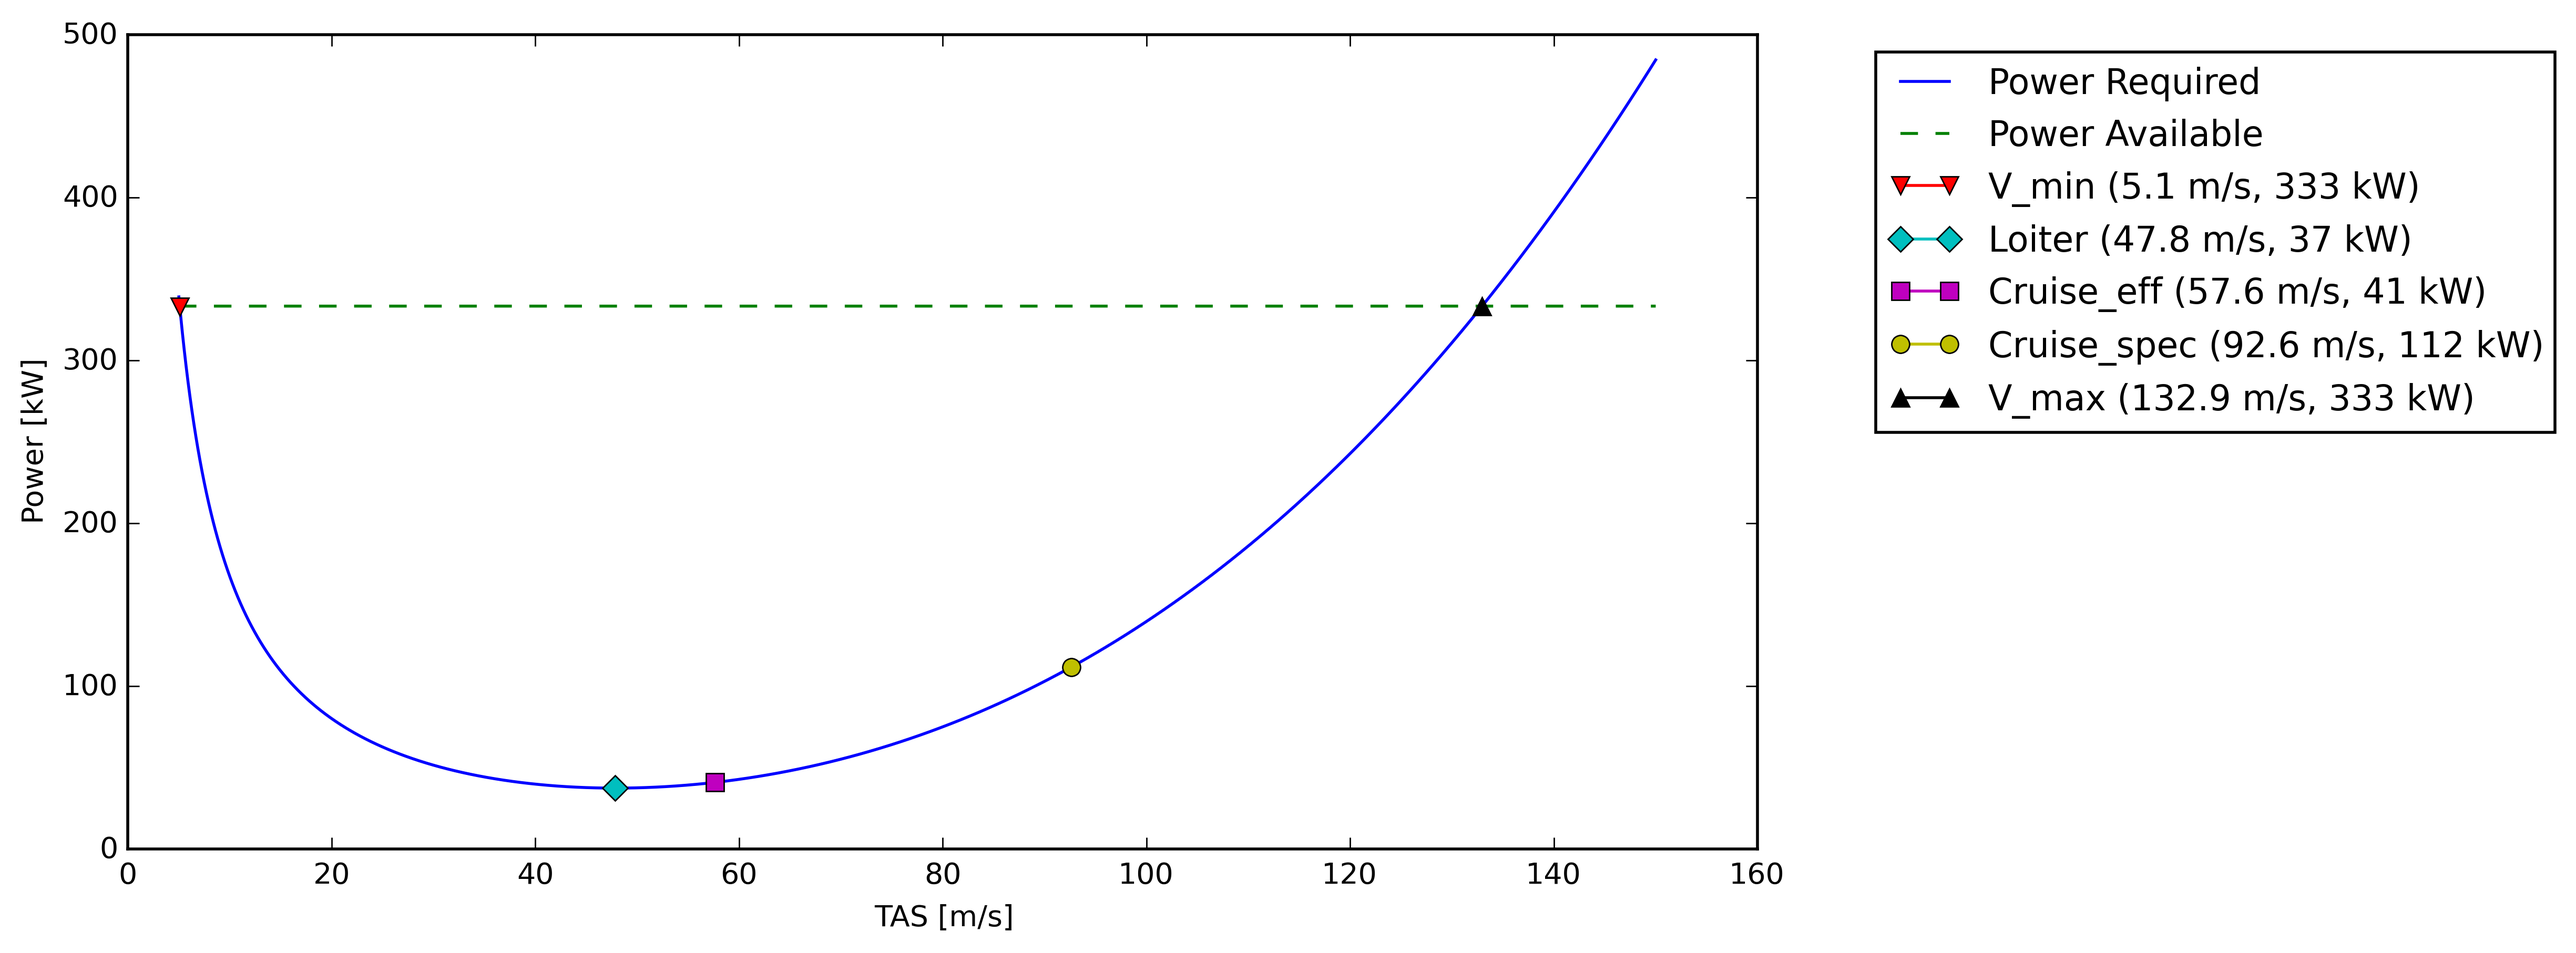
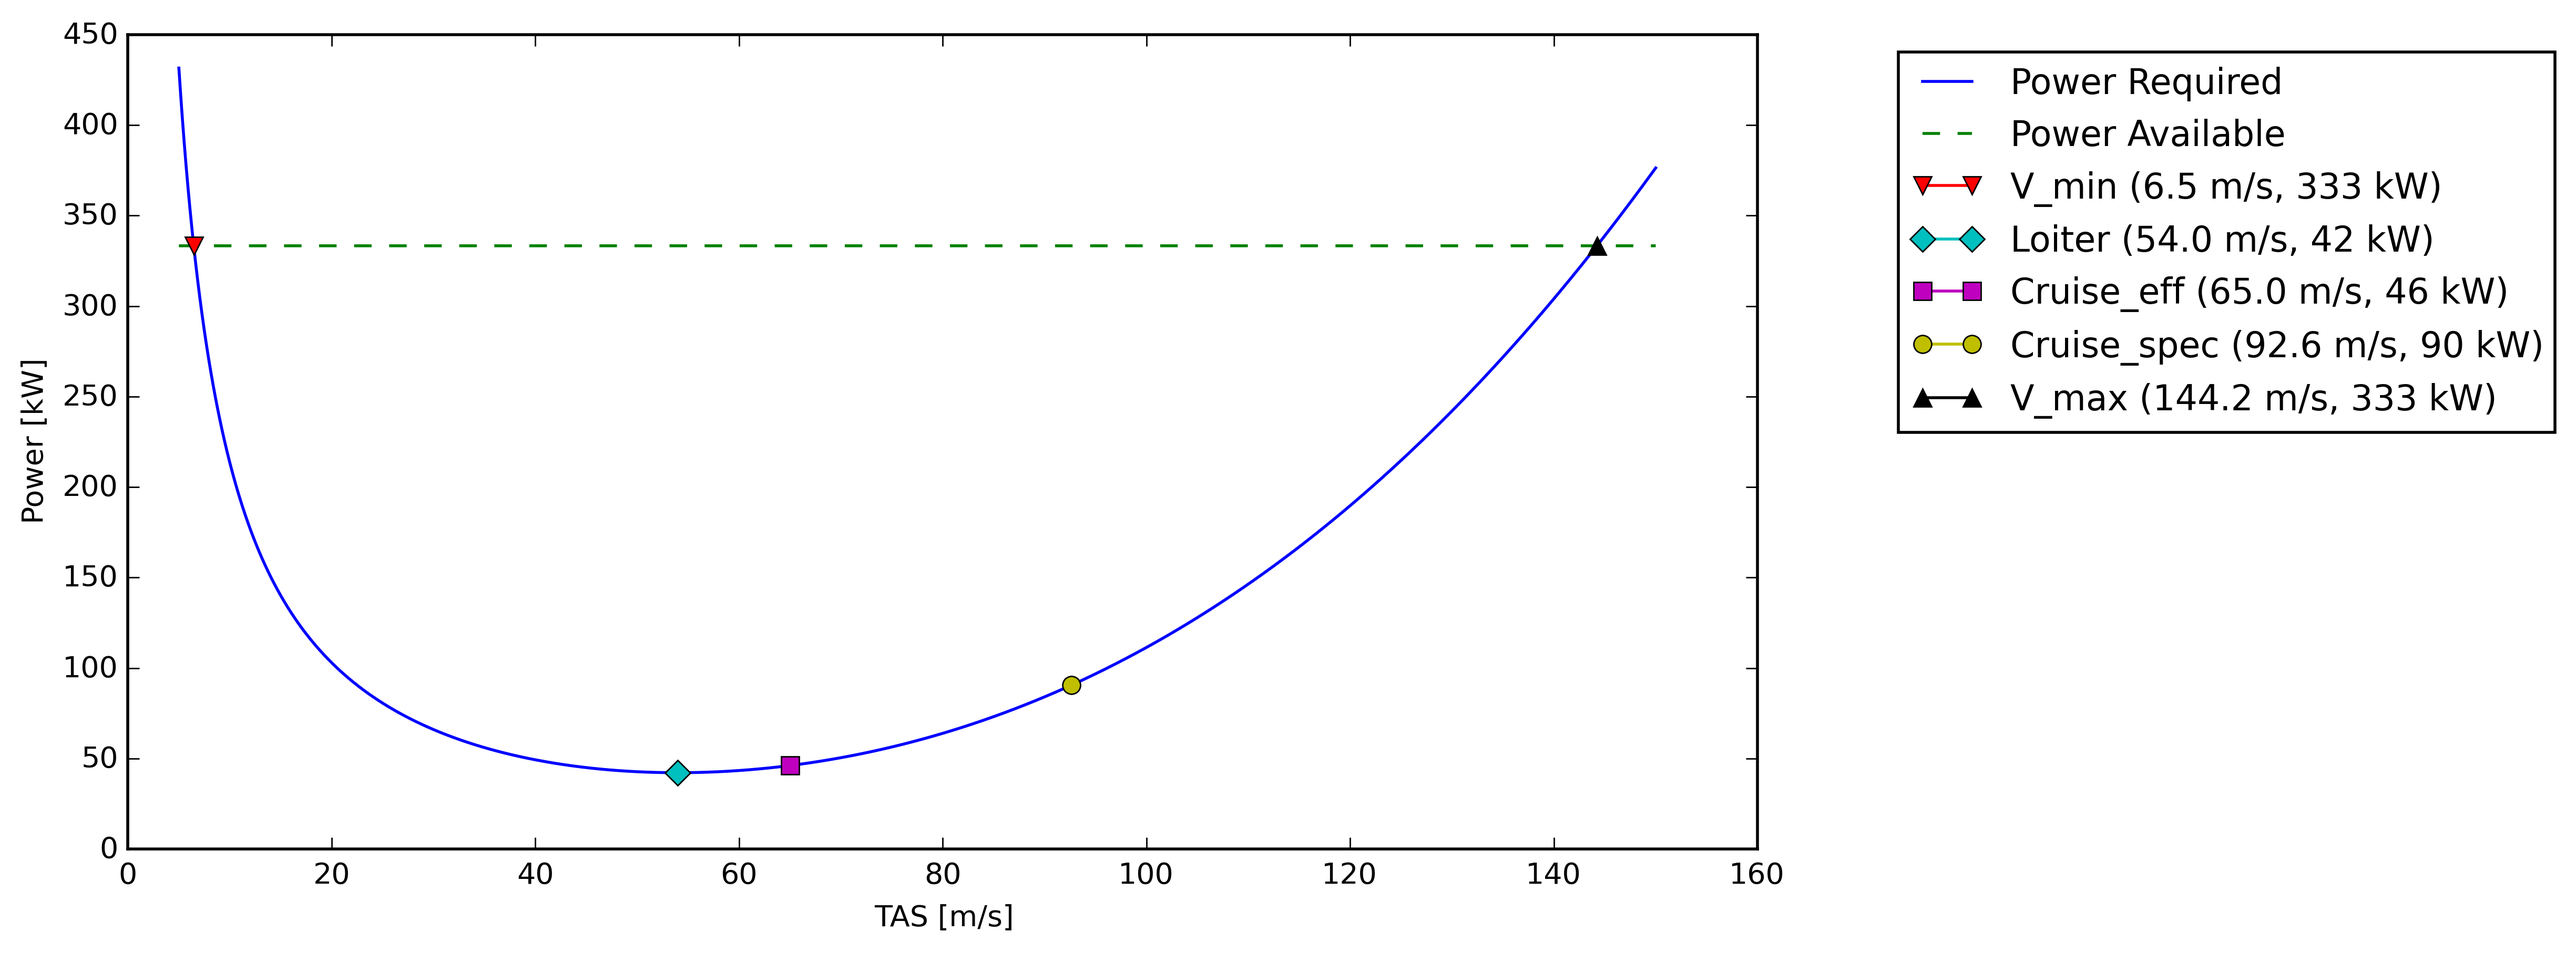
niks

diff --git a/Stability&control/HorizontalTail.py b/Stability&control/HorizontalTail.py
@@ -14,6 +14,18 @@ import matplotlib.pyplot as plt
 #if not os.path.exists(directory):
 #    os.makedirs(directory)
 
+#### INPUTS ##########
+#    OEW = 997. # [kg]
+#    c = 1.568 # MAC
+#    x_ac = 0.3
+#    downwash = 0.427
+#    Cmac = -0.121
+#    CL_Ah = 2.3
+#    CL_alpha_Ah = 5.11
+#    CL_h = -0.55
+#    CL_alpha_h = 3.852
+#    VhV2 = 0.85**2 # (Vh/V)^2
+
 ##### OUTPUTS StabTailSizing() ####
 #    x_lemac_array = array with possible x_lemac locations [m]
 #    xcg_for_load = xcg_locations during loading wrt to MAC for different x_LEMAC
@@ -33,15 +45,17 @@ import matplotlib.pyplot as plt
 #    where_opt = index of optimal configuration
 #################
 
-def StabTailSizing(x_lemac_acc, ShS_acc): # Calc optimal Sh/S and x_lemac. Input accuracy of analysis.
+
+
+def StabTailSizing(OEW,c,x_ac,downwash,Cmac,CL_Ah,CL_alpha_Ah,CL_h,CL_alpha_h,VhV2, x_lemac_acc, ShS_acc): # Calc optimal Sh/S and x_lemac. Input accuracy of analysis.
     ##### Calc xcg_OEW for different x_lemacs ###
     xcg_OEW = 2.9 # [m] # Starting value. Must be updated with xcg_OEW_opt
     xcg_wing = 2.9 # [m] # Starting value 
     xcg_wingMAC = 0.3 # cg of wing wrt MAC
-    OEW = 997. # [kg]
+#    OEW = 997. # [kg]
     wing = 209. # [kg]
     xcg_fuelMAC = 0.35 # xcg of fuel wrt MAC
-    c = 1.568 # MAC
+#    c = 1.568 # MAC
     
     moment_Aw = xcg_OEW * OEW - xcg_wing * wing    
     x_lemac_array = np.arange(1.5,3.0,x_lemac_acc) # Set range and accuracy of analysis !!!
@@ -92,15 +106,15 @@ def StabTailSizing(x_lemac_acc, ShS_acc): # Calc optimal Sh/S and x_lemac. Input
     xcg_aft = np.amax(xcg_for_load + xcg_aft_load + xcg_pil_load, axis=0) + 0.02
     #############################
     ##### Calc control and stability curves ###
-    x_ac = 0.3
-    downwash = 0.427
-    Cmac = -0.121
-    CL_Ah = 2.3
-    CL_alpha_Ah = 5.11
-    CL_h = -0.55
-    CL_alpha_h = 3.852
+#    x_ac = 0.3
+#    downwash = 0.427
+#    Cmac = -0.121
+#    CL_Ah = 2.3
+#    CL_alpha_Ah = 5.11
+#    CL_h = -0.55
+#    CL_alpha_h = 3.852
     lh = 5.425 # Tail arm
-    VhV2 = 0.85**2 # (Vh/V)^2
+#    VhV2 = 0.85**2 # (Vh/V)^2
     SM = 0.05 # Stability Margin
  
     ShS_array = np.arange(0,0.4,ShS_acc) # Sh/S. Set range and accuracy of analysis !!!
@@ -130,14 +144,14 @@ def StabTailSizing(x_lemac_acc, ShS_acc): # Calc optimal Sh/S and x_lemac. Input
 
 
 
-def StabTailSizingPlots(x_lemac_acc, ShS_acc):
+def StabTailSizingPlots(OEW,c,x_ac,downwash,Cmac,CL_Ah,CL_alpha_Ah,CL_h,CL_alpha_h,VhV2, x_lemac_acc, ShS_acc):
     # Create folder to store plots in       
     import os
     directory = os.getcwd() + '\Plots'
     if not os.path.exists(directory):
         os.makedirs(directory)
         
-    x_lemac_array, xcg_for_load, xcg_aft_load, xcg_pil_load, mass_tot, mass_tot_pil, xcg_for, xcg_aft, xcg_control, xcg_stab, ShS_array, ShS_opt, x_lemac_opt, xcg_OEW_opt, xcg_for_opt, xcg_aft_opt, where_opt = StabTailSizing(x_lemac_acc, ShS_acc)
+    x_lemac_array, xcg_for_load, xcg_aft_load, xcg_pil_load, mass_tot, mass_tot_pil, xcg_for, xcg_aft, xcg_control, xcg_stab, ShS_array, ShS_opt, x_lemac_opt, xcg_OEW_opt, xcg_for_opt, xcg_aft_opt, where_opt = StabTailSizing(OEW,c,x_ac,downwash,Cmac,CL_Ah,CL_alpha_Ah,CL_h,CL_alpha_h,VhV2, x_lemac_acc, ShS_acc)
     
     ##### Plot Loading diagram with all x_lemac options ###
 #    plt.plot(xcg_for_load,mass_tot, xcg_aft_load,mass_tot, xcg_pil_load,mass_tot_pil)
@@ -187,6 +201,6 @@ def StabTailSizingPlots(x_lemac_acc, ShS_acc):
 
 
 
-StabTailSizingPlots(0.001,0.001)
+StabTailSizingPlots(997,1.568,0.3,0.427,-0.121,2.3,5.11,-0.55,3.852,0.85**2,0.001,0.001)
 
-x_lemac_array, xcg_for_load, xcg_aft_load, xcg_pil_load, mass_tot, mass_tot_pil, xcg_for, xcg_aft, xcg_control, xcg_stab, ShS_array, ShS_opt, x_lemac_opt, xcg_OEW_opt, xcg_for_opt, xcg_aft_opt, where_opt = StabTailSizing(0.01,0.01)
+x_lemac_array, xcg_for_load, xcg_aft_load, xcg_pil_load, mass_tot, mass_tot_pil, xcg_for, xcg_aft, xcg_control, xcg_stab, ShS_array, ShS_opt, x_lemac_opt, xcg_OEW_opt, xcg_for_opt, xcg_aft_opt, where_opt = StabTailSizing(997,1.568,0.3,0.427,-0.121,2.3,5.11,-0.55,3.852,0.85**2,0.01,0.01)

diff --git a/FPP/CruiseRange.py b/FPP/CruiseRange.py
@@ -145,7 +145,7 @@ def calcCruise(MTOW,OEW,Mfuelmax,PL,S,V_acc): # Payload [kg], speed analysis acc
     prop_eff = 0.9
     cp = 0.408 / 3.6E6 # [kg/J] UPDATE for different speeds and altitudes
     E = 45*60 # Required endurance / Loiter duration [s]
-    h_cruise = 18000 * 0.3048 # Cruise altitude [m]
+    h_cruise = 25000 * 0.3048 # Cruise altitude [m]
     h_loiter = 3000 * 0.3048 # Loiter altitude [m]
     g = 9.81
     Mff_start = 0.965 # 0.990*0.995*0.995*0.985 # Fuel fraction from start to cruise altitude

diff --git a/Common/Weight.py b/Common/Weight.py
@@ -1,0 +1,7 @@
+# -*- coding: utf-8 -*-
+"""
+Created on Thu Jun 15 15:20:45 2017
+
+@author: Maxime
+"""
+
